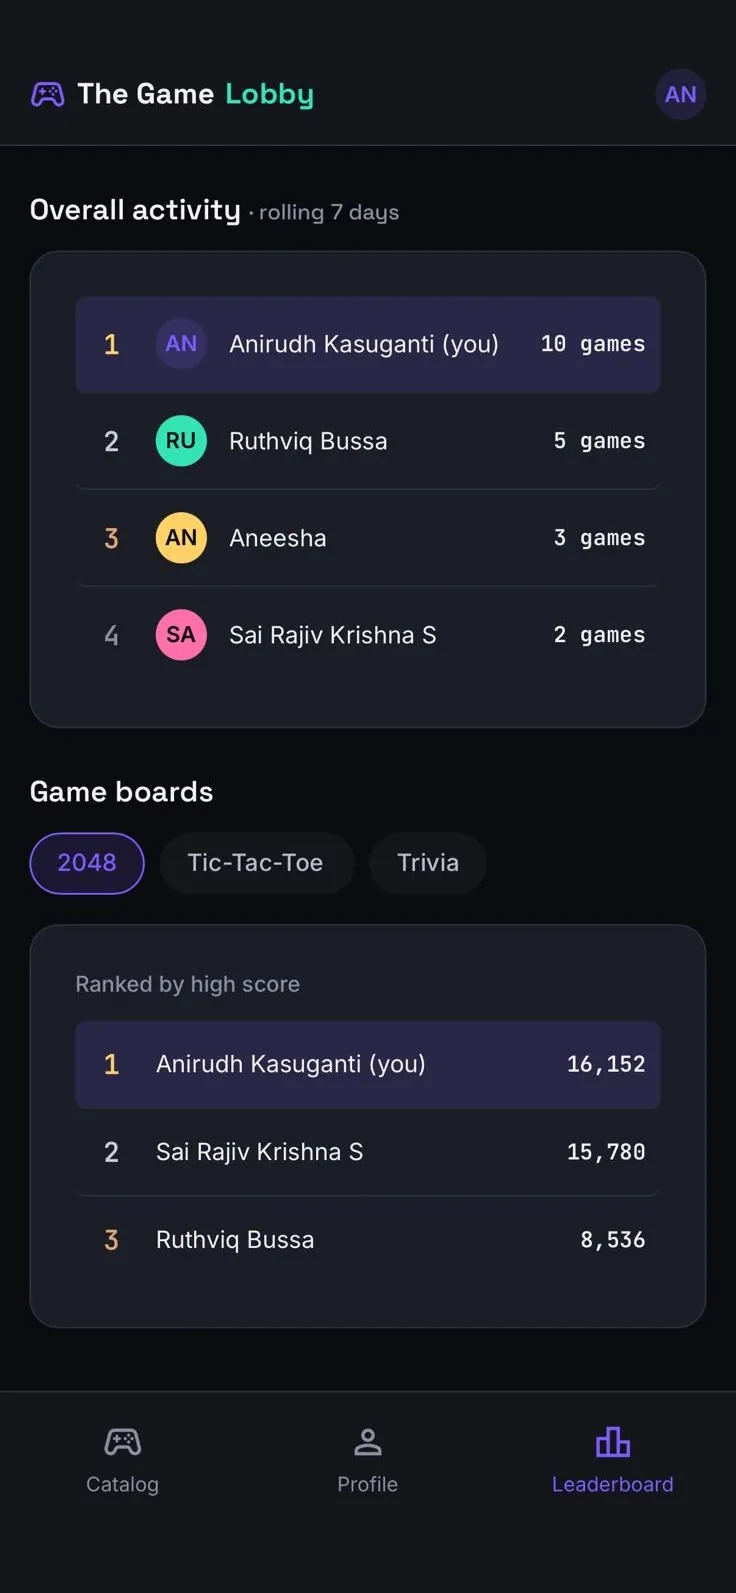
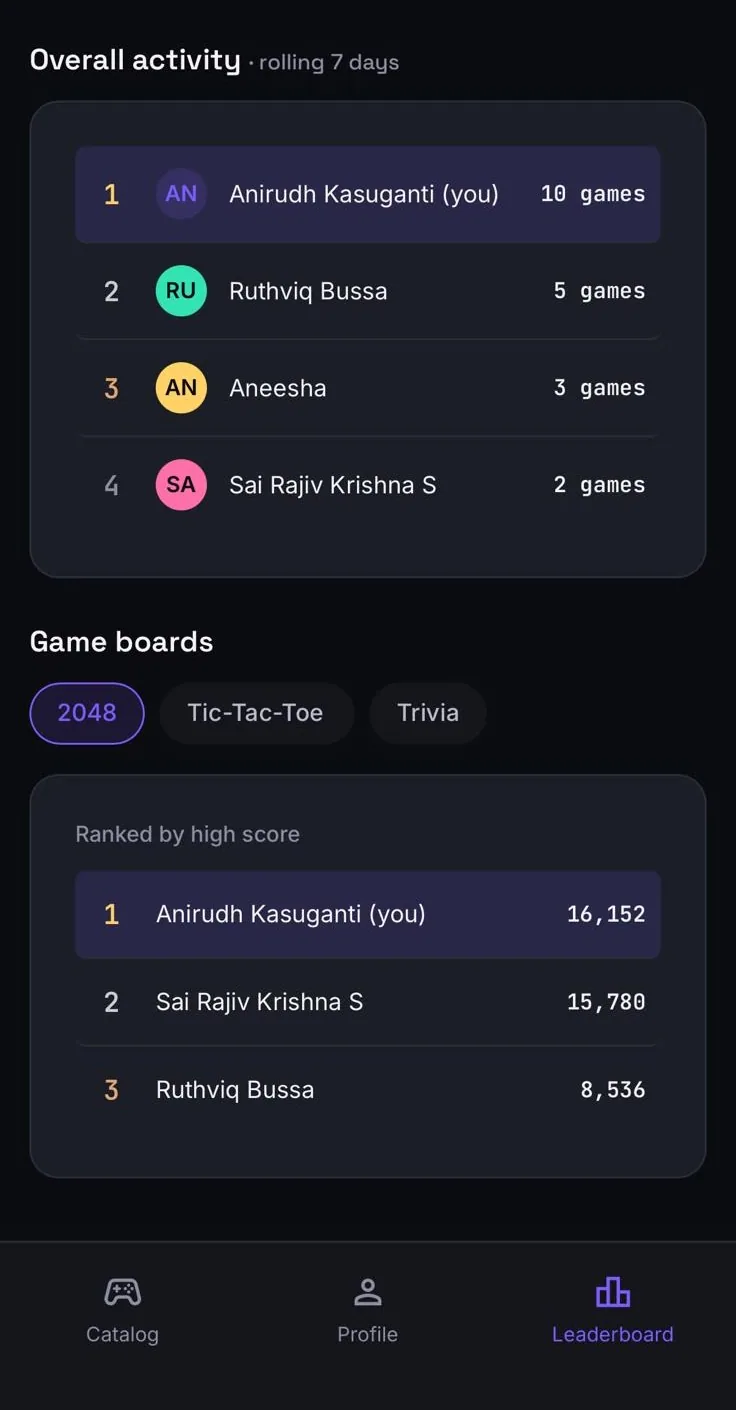
Reframe Game Lobby screenshots to focus each feature
Crop the 9 game-lobby screenshots (and the Game Lobby card on Projects)
to remove dead space and redundant app chrome, so each screenshot centers
on the feature its caption describes. Update width/height to match.

diff --git a/site/the-game-lobby.html b/site/the-game-lobby.html
@@ -117,21 +117,21 @@
       </div>
       <div class="wt-steps">
         <div class="wt-step">
-          <div class="wt-step-media is-portrait"><picture><source srcset="assets/img/game-lobby/screenshot-01.webp" type="image/webp"><img src="assets/img/game-lobby/screenshot-01.jpg" alt="Game catalog" width="780" height="1688" loading="lazy" decoding="async"></picture></div>
+          <div class="wt-step-media is-portrait"><picture><source srcset="assets/img/game-lobby/screenshot-01.webp" type="image/webp"><img src="assets/img/game-lobby/screenshot-01.jpg" alt="Game catalog" width="780" height="1120" loading="lazy" decoding="async"></picture></div>
           <div class="wt-step-body">
             <h4>Catalog</h4>
             <p>Every game — genre, mode, a one-line hook. No login needed.</p>
           </div>
         </div>
         <div class="wt-step">
-          <div class="wt-step-media is-portrait"><picture><source srcset="assets/img/game-lobby/screenshot-02.webp" type="image/webp"><img src="assets/img/game-lobby/screenshot-02.jpg" alt="Game info screen" width="780" height="1688" loading="lazy" decoding="async"></picture></div>
+          <div class="wt-step-media is-portrait"><picture><source srcset="assets/img/game-lobby/screenshot-02.webp" type="image/webp"><img src="assets/img/game-lobby/screenshot-02.jpg" alt="Game info screen" width="780" height="1140" loading="lazy" decoding="async"></picture></div>
           <div class="wt-step-body">
             <h4>Game info</h4>
             <p>Rules up front, then Create Lobby or join with a code.</p>
           </div>
         </div>
         <div class="wt-step">
-          <div class="wt-step-media is-portrait"><picture><source srcset="assets/img/game-lobby/screenshot-03.webp" type="image/webp"><img src="assets/img/game-lobby/screenshot-03.jpg" alt="Lobby screen with invite link and players" width="780" height="1688" loading="lazy" decoding="async"></picture></div>
+          <div class="wt-step-media is-portrait"><picture><source srcset="assets/img/game-lobby/screenshot-03.webp" type="image/webp"><img src="assets/img/game-lobby/screenshot-03.jpg" alt="Lobby screen with invite link and players" width="780" height="1470" loading="lazy" decoding="async"></picture></div>
           <div class="wt-step-body">
             <h4>Lobby</h4>
             <p>Share a link or code — the host starts once friends join.</p>
@@ -149,21 +149,21 @@
       </div>
       <div class="wt-steps">
         <div class="wt-step">
-          <div class="wt-step-media is-portrait"><picture><source srcset="assets/img/game-lobby/screenshot-04.webp" type="image/webp"><img src="assets/img/game-lobby/screenshot-04.jpg" alt="2048 solo gameplay" width="780" height="1688" loading="lazy" decoding="async"></picture></div>
+          <div class="wt-step-media is-portrait"><picture><source srcset="assets/img/game-lobby/screenshot-04.webp" type="image/webp"><img src="assets/img/game-lobby/screenshot-04.jpg" alt="2048 solo gameplay" width="780" height="950" loading="lazy" decoding="async"></picture></div>
           <div class="wt-step-body">
             <h4>2048 · solo</h4>
             <p>Slide-and-merge, saved locally — a refresh won't cost you.</p>
           </div>
         </div>
         <div class="wt-step">
-          <div class="wt-step-media is-portrait"><picture><source srcset="assets/img/game-lobby/screenshot-05.webp" type="image/webp"><img src="assets/img/game-lobby/screenshot-05.jpg" alt="Tic-Tac-Toe live 1v1 gameplay" width="780" height="1688" loading="lazy" decoding="async"></picture></div>
+          <div class="wt-step-media is-portrait"><picture><source srcset="assets/img/game-lobby/screenshot-05.webp" type="image/webp"><img src="assets/img/game-lobby/screenshot-05.jpg" alt="Tic-Tac-Toe live 1v1 gameplay" width="780" height="980" loading="lazy" decoding="async"></picture></div>
           <div class="wt-step-body">
             <h4>Tic-Tac-Toe · live 1v1</h4>
             <p>A turn timer keeps it moving — miss it and your turn is skipped.</p>
           </div>
         </div>
         <div class="wt-step">
-          <div class="wt-step-media is-portrait"><picture><source srcset="assets/img/game-lobby/screenshot-06.webp" type="image/webp"><img src="assets/img/game-lobby/screenshot-06.jpg" alt="Trivia gameplay with multiple players" width="780" height="1688" loading="lazy" decoding="async"></picture></div>
+          <div class="wt-step-media is-portrait"><picture><source srcset="assets/img/game-lobby/screenshot-06.webp" type="image/webp"><img src="assets/img/game-lobby/screenshot-06.jpg" alt="Trivia gameplay with multiple players" width="780" height="1260" loading="lazy" decoding="async"></picture></div>
           <div class="wt-step-body">
             <h4>Trivia · host + up to 10</h4>
             <p>Everyone answers live, against the clock, together.</p>
@@ -181,21 +181,21 @@
       </div>
       <div class="wt-steps">
         <div class="wt-step">
-          <div class="wt-step-media is-portrait"><picture><source srcset="assets/img/game-lobby/screenshot-07.webp" type="image/webp"><img src="assets/img/game-lobby/screenshot-07.jpg" alt="Match results screen" width="780" height="1688" loading="lazy" decoding="async"></picture></div>
+          <div class="wt-step-media is-portrait"><picture><source srcset="assets/img/game-lobby/screenshot-07.webp" type="image/webp"><img src="assets/img/game-lobby/screenshot-07.jpg" alt="Match results screen" width="780" height="1440" loading="lazy" decoding="async"></picture></div>
           <div class="wt-step-body">
             <h4>Results</h4>
             <p>Win or lose, everyone sees it — Replay re-hosts instantly.</p>
           </div>
         </div>
         <div class="wt-step">
-          <div class="wt-step-media is-portrait"><picture><source srcset="assets/img/game-lobby/screenshot-08.webp" type="image/webp"><img src="assets/img/game-lobby/screenshot-08.jpg" alt="Leaderboard screen" width="736" height="1593" loading="lazy" decoding="async"></picture></div>
+          <div class="wt-step-media is-portrait"><picture><source srcset="assets/img/game-lobby/screenshot-08.webp" type="image/webp"><img src="assets/img/game-lobby/screenshot-08.jpg" alt="Leaderboard screen" width="736" height="1410" loading="lazy" decoding="async"></picture></div>
           <div class="wt-step-body">
             <h4>Leaderboard</h4>
             <p>7-day activity, plus a separate board for each game.</p>
           </div>
         </div>
         <div class="wt-step">
-          <div class="wt-step-media is-portrait"><picture><source srcset="assets/img/game-lobby/screenshot-09.webp" type="image/webp"><img src="assets/img/game-lobby/screenshot-09.jpg" alt="Player profile screen" width="736" height="1593" loading="lazy" decoding="async"></picture></div>
+          <div class="wt-step-media is-portrait"><picture><source srcset="assets/img/game-lobby/screenshot-09.webp" type="image/webp"><img src="assets/img/game-lobby/screenshot-09.jpg" alt="Player profile screen" width="736" height="1410" loading="lazy" decoding="async"></picture></div>
           <div class="wt-step-body">
             <h4>Profile</h4>
             <p>Stats and match history across every game, in one place.</p>

diff --git a/site/projects.html b/site/projects.html
@@ -86,7 +86,7 @@
           </div>
           <span class="badge badge-live">Live</span>
         </div>
-        <div class="card-thumb is-portrait"><picture><source srcset="assets/img/game-lobby/screenshot-01.webp" type="image/webp"><img src="assets/img/game-lobby/screenshot-01.jpg" alt="The Game Lobby — game catalog" width="780" height="1688" loading="lazy" decoding="async"></picture></div>
+        <div class="card-thumb is-portrait"><picture><source srcset="assets/img/game-lobby/screenshot-01.webp" type="image/webp"><img src="assets/img/game-lobby/screenshot-01.jpg" alt="The Game Lobby — game catalog" width="780" height="1120" loading="lazy" decoding="async"></picture></div>
         <p>A multi-game platform spanning single-player, online multiplayer, and party formats.</p>
         <span class="card-link">View project →</span>
       </a>
